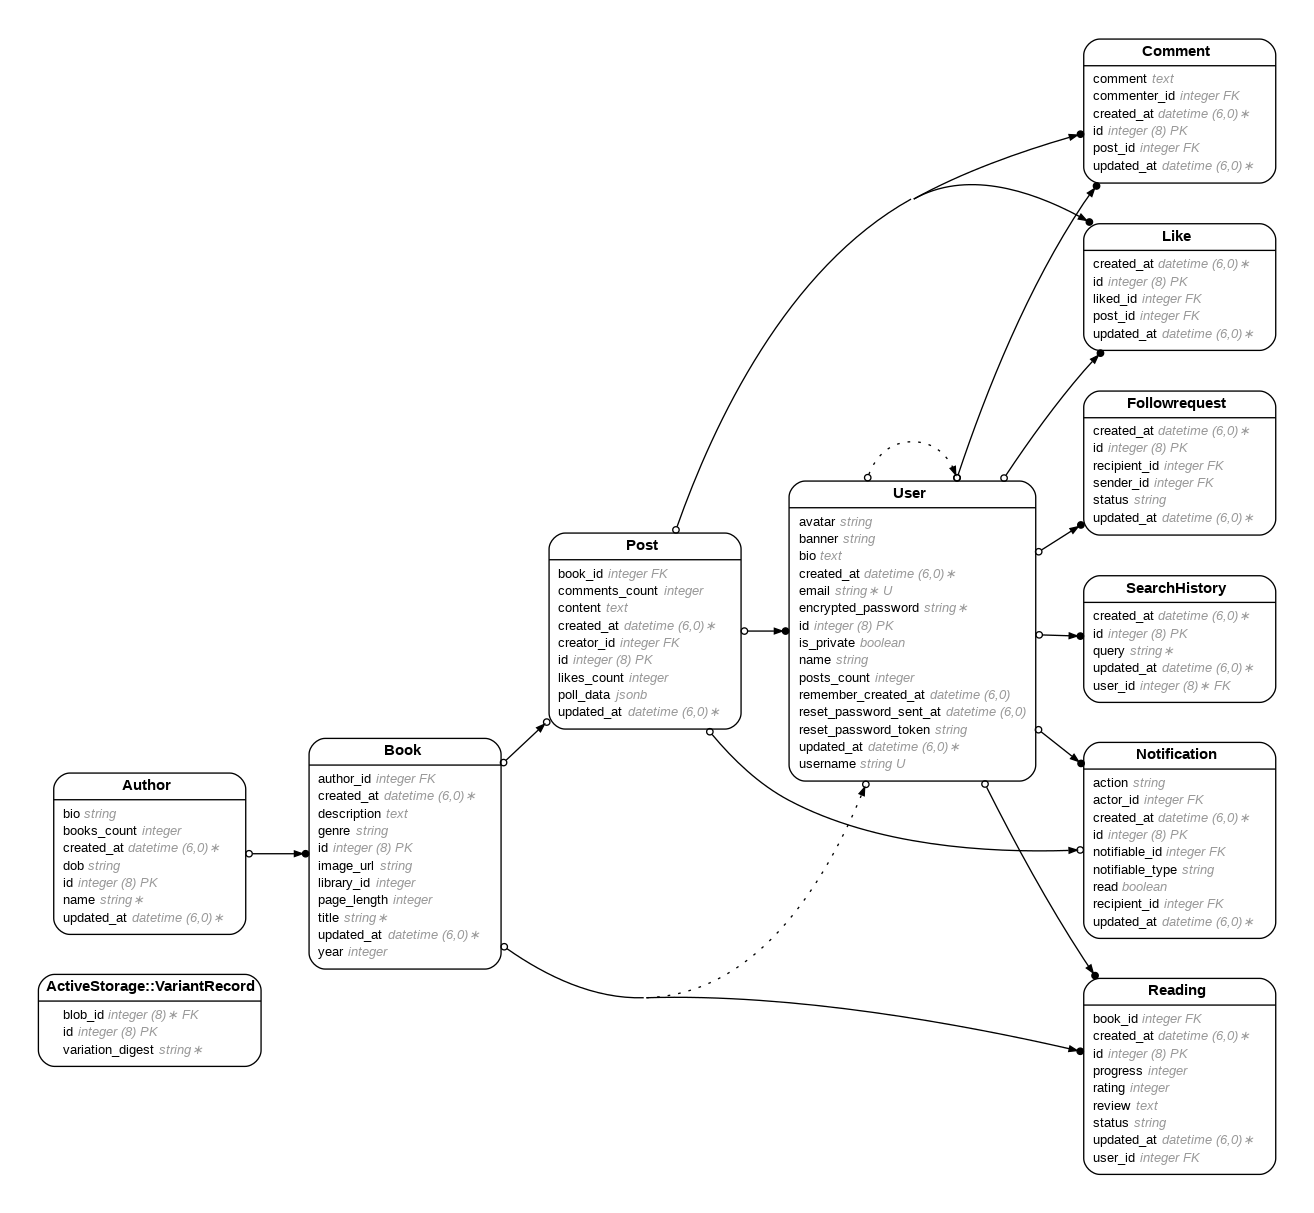
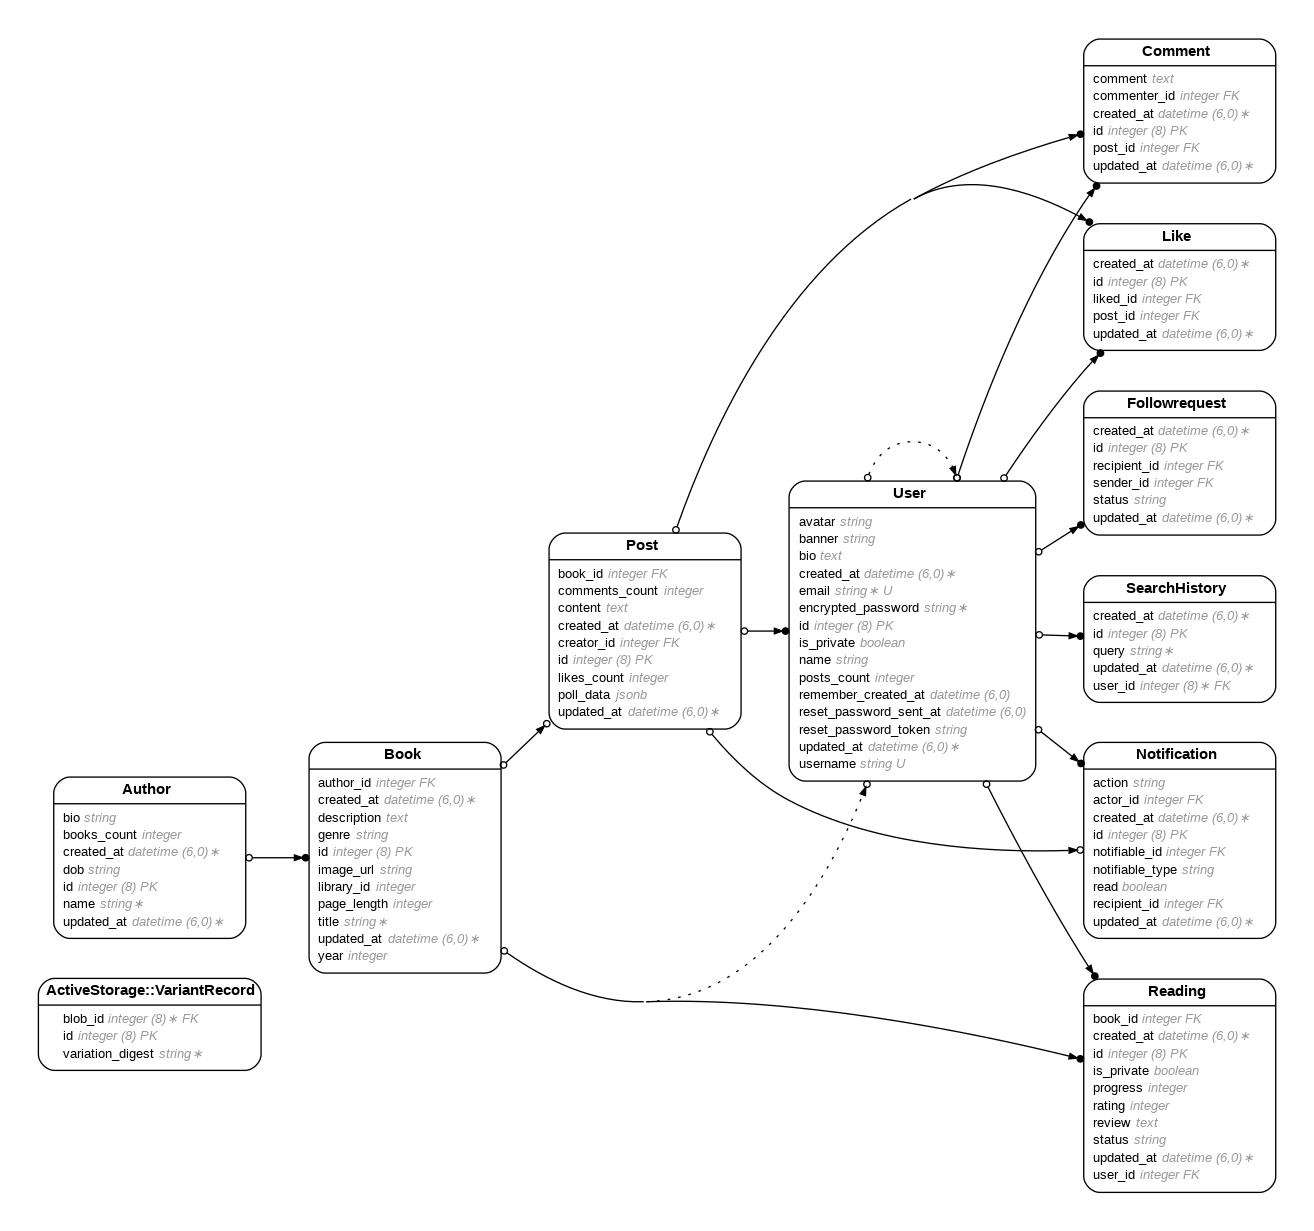
Migrated new tables

diff --git a/db/schema.rb b/db/schema.rb
@@ -10,7 +10,7 @@
 #
 # It's strongly recommended that you check this file into your version control system.
 
-ActiveRecord::Schema[7.1].define(version: 2025_07_17_000000) do
+ActiveRecord::Schema[7.1].define(version: 2025_07_18_000000) do
   # These are extensions that must be enabled in order to support this database
   enable_extension "plpgsql"
 

diff --git a/app/models/reading.rb b/app/models/reading.rb
@@ -3,6 +3,7 @@
 # Table name: readings
 #
 #  id         :bigint           not null, primary key
+#  is_private :boolean          default(FALSE)
 #  progress   :integer
 #  rating     :integer
 #  review     :text

diff --git a/spec/factories/readings.rb b/spec/factories/readings.rb
@@ -3,6 +3,7 @@
 # Table name: readings
 #
 #  id         :bigint           not null, primary key
+#  is_private :boolean          default(FALSE)
 #  progress   :integer
 #  rating     :integer
 #  review     :text

diff --git a/spec/models/reading_spec.rb b/spec/models/reading_spec.rb
@@ -3,6 +3,7 @@
 # Table name: readings
 #
 #  id         :bigint           not null, primary key
+#  is_private :boolean          default(FALSE)
 #  progress   :integer
 #  rating     :integer
 #  review     :text
